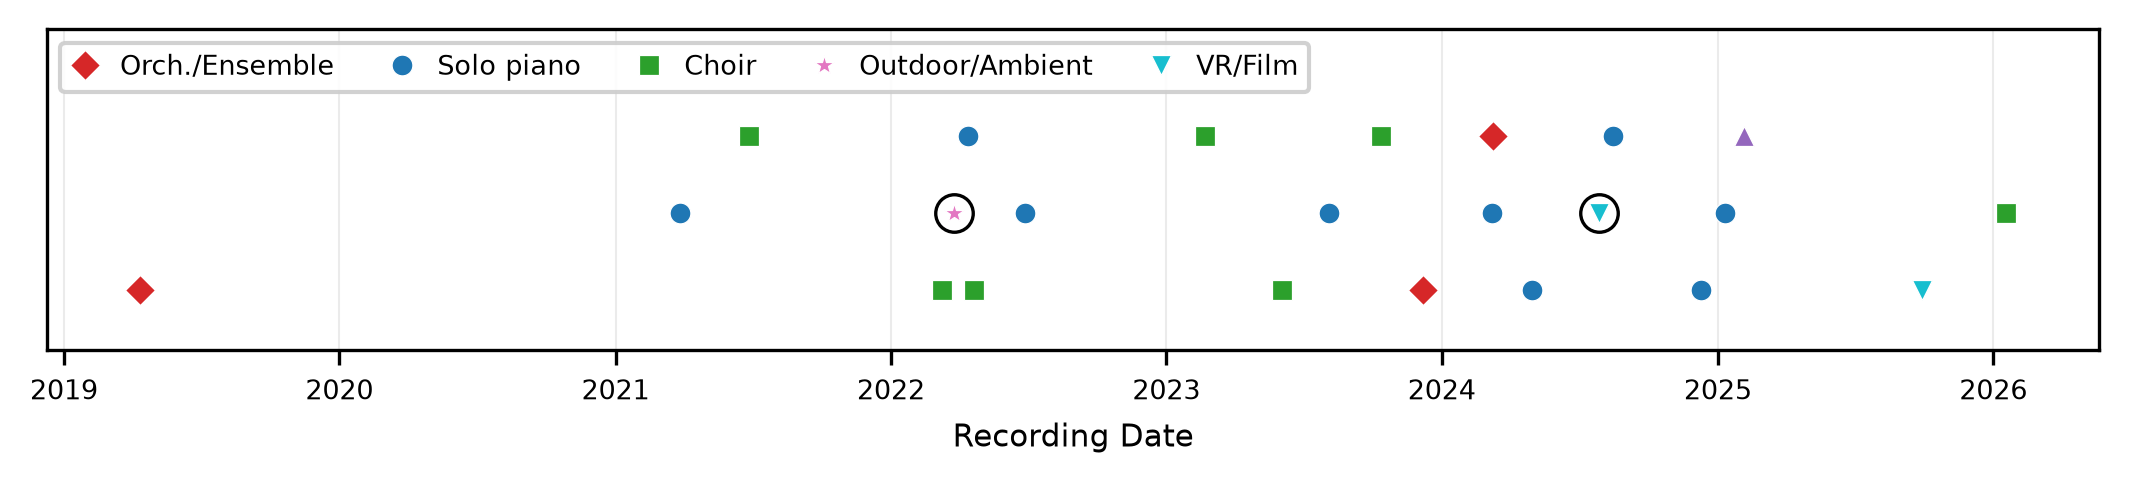
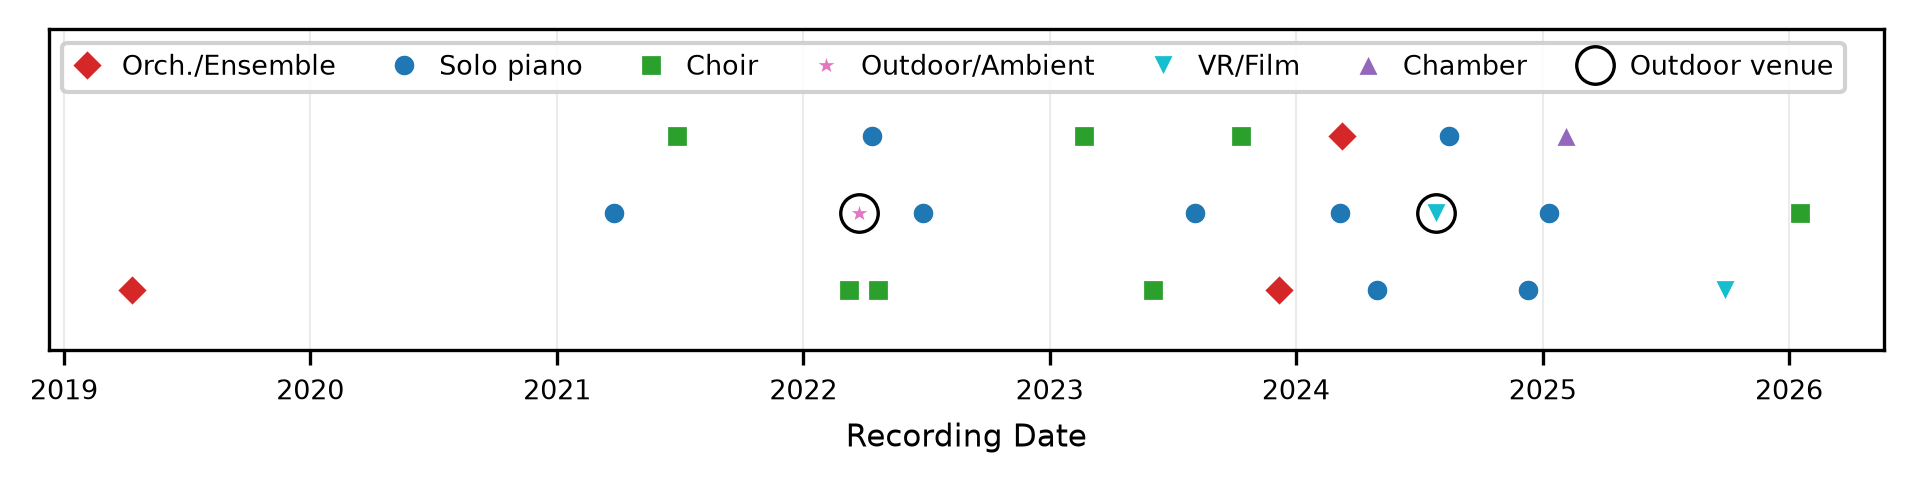
v1.1.1: corrected ZM-1 specification, figure labels and Table 6 for the accepted paper
- ZM-1 constants follow the manufacturer: sphere diameter 103 mm, acoustic overload 130 dB SPL, SNR 69 dB(A), equivalent noise level 25 dB(A); all_variables.tex regenerated by generate_latex_variables.py
- Fig. 3 and Fig. 9(b) axis labels in American spelling (Center, Normalized); the figures regenerate byte-identically in the requirements-lock environment, and the checksum of the one listed figure is updated
- Fig. 5 legend explains every marker: chamber music and the ring for outdoor venues
- Table 6: tighter column spacing so it fits the column; session 22 lists its rendered content (2 min), not the 4.5-minute raw take
- README: the Spcmic response file Harpex distributes, and the paper's status
- CITATION.cff: version 1.1.1, status in-press
- DATASHEET: paper status; AES links in the new URL scheme

diff --git a/pyscripts/render_ieee_figures.py b/pyscripts/render_ieee_figures.py
@@ -120,7 +120,7 @@ def render_fig03():
     ax.axhline(avg, color='red', linestyle='--', linewidth=1.0, alpha=0.8,
                label=f'Broadband avg: {avg:.2f} s')
     _apply_ieee_style(ax,
-                      xlabel='Octave Band Centre Frequency',
+                      xlabel='Octave Band Center Frequency',
                       ylabel='Reverberation Time T30 (s)',
                       legend_loc='upper right', grid_axis='y')
     fig.tight_layout(pad=0.3)
@@ -193,7 +193,7 @@ def render_fig05():
         'choir_with_ensemble':  ('#2ca02c', 's', 'Choir'),
         'orchestra':            ('#d62728', 'D', 'Orch./Ensemble'),
         'ensemble':             ('#d62728', 'D', 'Orch./Ensemble'),
-        'chamber':              ('#9467bd', '^', 'Orch./Ensemble'),
+        'chamber':              ('#9467bd', '^', 'Chamber'),
         'ambient':              ('#e377c2', '*', 'Outdoor/Ambient'),
         'ambience':             ('#e377c2', '*', 'Outdoor/Ambient'),
         'vr_film_production':   ('#17becf', 'v', 'VR/Film'),
@@ -220,6 +220,9 @@ def render_fig05():
             ax.plot(s['date'], y, marker='o', color='none',
                     markersize=9, markeredgewidth=0.8,
                     markeredgecolor='black', zorder=3, linestyle='none')
+
+    ax.plot([], [], marker='o', color='none', markersize=9, markeredgewidth=0.8,
+            markeredgecolor='black', linestyle='none', label='Outdoor venue')
 
     ax.set_ylim(0.60, 1.35)
     ax.set_yticks([])
@@ -528,7 +531,7 @@ def render_fig10():
                 label=comp_labels[comp])
     ax2.set_xticks(x_pos)
     ax2.set_xticklabels(x_tick_labels, fontsize=FS_TICK)
-    ax2.set_ylabel('Normalised to W Channel', fontsize=FS_LABEL)
+    ax2.set_ylabel('Normalized to W Channel', fontsize=FS_LABEL)
     ax2.tick_params(axis='y', labelsize=FS_TICK)
     ax2.grid(True, axis='y', alpha=0.3, linewidth=0.5, linestyle=':')
     ax2.legend(fontsize=FS_LEGEND, framealpha=0.9, edgecolor='0.8',

diff --git a/data/session_inventory_table.tex b/data/session_inventory_table.tex
@@ -1,10 +1,11 @@
 % Session Inventory Table - Auto-generated
-% Generated: 2026-09-06 12:47
+% Generated: 2026-10-04 15:13
 
 \begin{table}[htbp]
     \centering
     \caption{Complete Session Inventory}\label{tab:session_inventory}
     \small
+    \setlength{\tabcolsep}{4pt}
     \begin{tabular}{@{}rlll l@{\hspace{4pt}}r@{}}
         \toprule
         No. & Date & Venue & Content & Mic & Dur. \\
@@ -30,7 +31,7 @@
         19 & 2024-12-10 & Aula PG & Piano$^\dagger$ & ZM-1 & 25 \\
         20 & 2025-01-10 & AMuz Gdańsk & Piano & ZM-1 & 15 \\
         21 & 2025-02-05 & Aula PG & Chamber$^\dagger$ & ZM-1 & 16 \\
-        22 & 2025-09-28 & Jędrzejewo & VR Prod & Spcmic & 5 \\
+        22 & 2025-09-28 & Jędrzejewo & VR Prod & Spcmic & 2 \\
         23 & 2026-01-18 & Oliwa Cath. & Choir & Spcmic & 50 \\
         \botrule
     \end{tabular}

diff --git a/data/all_variables.tex b/data/all_variables.tex
@@ -1,5 +1,5 @@
 % All HOA Corpus paper variables
-% Auto-generated by generate_latex_variables.py on 2026-09-06 17:19
+% Auto-generated by generate_latex_variables.py on 2026-10-04 14:47
 % Do not edit manually - regenerate from source data
 
 \newcommand{\AulaCEighty}{-1.8}
@@ -94,10 +94,11 @@
 \newcommand{\ZMOneBitDepth}{24}
 \newcommand{\ZMOneCapsules}{19}
 \newcommand{\ZMOneChannels}{20}
-\newcommand{\ZMOneDiameter}{88}
+\newcommand{\ZMOneDiameter}{103}
 \newcommand{\ZMOneMaxOrder}{3}
-\newcommand{\ZMOneMaxSPL}{120}
+\newcommand{\ZMOneMaxSPL}{130}
 \newcommand{\ZMOneRolloffZeroToThree}{27.4}
+\newcommand{\ZMOneSNR}{69}
 \newcommand{\ZMOneSampleRate}{48}
-\newcommand{\ZMOneSelfNoise}{32}
+\newcommand{\ZMOneSelfNoise}{25}
 \newcommand{\ZMOneSerial}{SM19DRXWS03100AR}

diff --git a/pyscripts/revision_figures.py b/pyscripts/revision_figures.py
@@ -152,7 +152,7 @@ def fig10_ci(rows):
                 error_kw=dict(elinewidth=0.7, capthick=0.7))
     ax2.set_xticks(x_pos)
     ax2.set_xticklabels(x_lab, fontsize=FS_TICK)
-    ax2.set_ylabel('Normalised to W Channel', fontsize=FS_LABEL)
+    ax2.set_ylabel('Normalized to W Channel', fontsize=FS_LABEL)
     ax2.tick_params(axis='y', labelsize=FS_TICK)
     ax2.grid(True, axis='y', alpha=0.3, linewidth=0.5, linestyle=':')
     ax2.legend(fontsize=FS_LEGEND, framealpha=0.9, edgecolor='0.8',

diff --git a/pyscripts/generate_latex_variables.py b/pyscripts/generate_latex_variables.py
@@ -280,9 +280,10 @@ def generate_equipment_variables():
     """Generate variables for equipment specifications."""
     variables = {
         'ZMOneCapsules': '19',
-        'ZMOneDiameter': '88',
-        'ZMOneMaxSPL': '120',
-        'ZMOneSelfNoise': '32',
+        'ZMOneDiameter': '103',
+        'ZMOneMaxSPL': '130',
+        'ZMOneSelfNoise': '25',
+        'ZMOneSNR': '69',
         'ZMOneChannels': '20',
         'ZMOneSampleRate': '48',
         'ZMOneBitDepth': '24',

diff --git a/pyscripts/generate_session_inventory.py b/pyscripts/generate_session_inventory.py
@@ -175,6 +175,7 @@ def generate_latex_table(sessions):
     lines.append(r"    \centering")
     lines.append(r"    \caption{Complete Session Inventory}\label{tab:session_inventory}")
     lines.append(r"    \small")
+    lines.append(r"    \setlength{\tabcolsep}{4pt}")
     lines.append(r"    \begin{tabular}{@{}rlll l@{\hspace{4pt}}r@{}}")
     lines.append(r"        \toprule")
     lines.append(r"        No. & Date & Venue & Content & Mic & Dur. \\")

diff --git a/README.md b/README.md
@@ -5,7 +5,7 @@
 Supplementary materials for the paper:
 
 ***"A Seven-Year Higher-Order Ambisonics Recording Corpus: Dataset, Methodology, and a Co-Located Spherical Microphone Array Comparison"***
-Bartłomiej Mróz, Szymon Zaporowski · *IEEE Access* (under review)
+Bartłomiej Mróz, Szymon Zaporowski · *IEEE Access* (accepted)
 
 This repository contains:
 - The corpus-wide figure and LaTeX-macro pipeline (geographic distribution, recording timeline, room acoustics, loudness distribution, session inventory)
@@ -150,6 +150,8 @@ What it produces, all committed under `revision_results/reencode/` (~6.2 MB):
 | `reencode_variables.tex` | `\Reenc...` macros consumed by the manuscript |
 
 Paths recorded in these files are relative to `revision_results/reencode/` and to the deposit root. The factory ZM-1 and Spcmic 3OA rows of `reencode_bootstrap.csv` carry the intervals of `revision_results/rolloff_bootstrap.csv` (`ci_source` column), so each of those quantities has one committed interval.
+
+The Spcmic is not re-encoded in this release; Section V-B of the manuscript leaves it to future work because it needs a numerical model of disc scattering. Harpex distributes a frequency-domain array response with its software, `spcmic-response.mat` in [harpex.net/spcmicsoftware](https://harpex.net/spcmicsoftware/): the complex responses of the 84 sensors to plane waves from 648 directions (a 10-degree grid) at 99 wavenumbers up to 19.6 kHz (at 343 m/s), which could take the place of that model. The sensor responses repeat bit for bit under a 120-degree rotation about the disc axis, so the layout the file models is three-fold symmetric and is not the six rings of seven capsules per side [published in 2019](https://hal.science/hal-02275191). The file does not say whether the data are measured or computed, it has not been validated here, and as Harpex's file it is not redistributed in this repository.
 
 ## Rebuilding a `.spcmic` file from a raw 84-channel capture
 

diff --git a/dataset_card/DATASHEET.md b/dataset_card/DATASHEET.md
@@ -172,8 +172,8 @@ The raw A-format captures are archived by the authors for every session and publ
 
 ### 5.1 Already used for
 
-- The companion IEEE Access paper (array comparison, corpus statistics; under review) and the earlier [AES Copenhagen 2026 paper](https://aes2.org/publications/elibrary-page/?id=23166) on the same comparison session.
-- Training data for a neural Ambisonics-to-binaural renderer ([Zaporowski and Mróz 2026](https://aes2.org/publications/elibrary-page/?id=23351), AES AVARIG 2026): 1,555 paired Ambisonics-binaural files (~9,300 five-second segments), about 62 % of that model's training material, were cut from this corpus.
+- The companion IEEE Access paper (array comparison, corpus statistics; accepted) and the earlier [AES Copenhagen 2026 paper](https://aes.org/publications/elibrary/elibrary-page/?id=23166) on the same comparison session.
+- Training data for a neural Ambisonics-to-binaural renderer ([Zaporowski and Mróz 2026](https://aes.org/publications/elibrary/elibrary-page/?id=23351), AES AVARIG 2026): 1,555 paired Ambisonics-binaural files (~9,300 five-second segments), about 62 % of that model's training material, were cut from this corpus.
 - Produced versions of nine sessions were released on YouTube, HOAST, streaming services or as a livestream (`publication_platforms` in `metadata.yaml`).
 
 ### 5.2 Recommended uses
